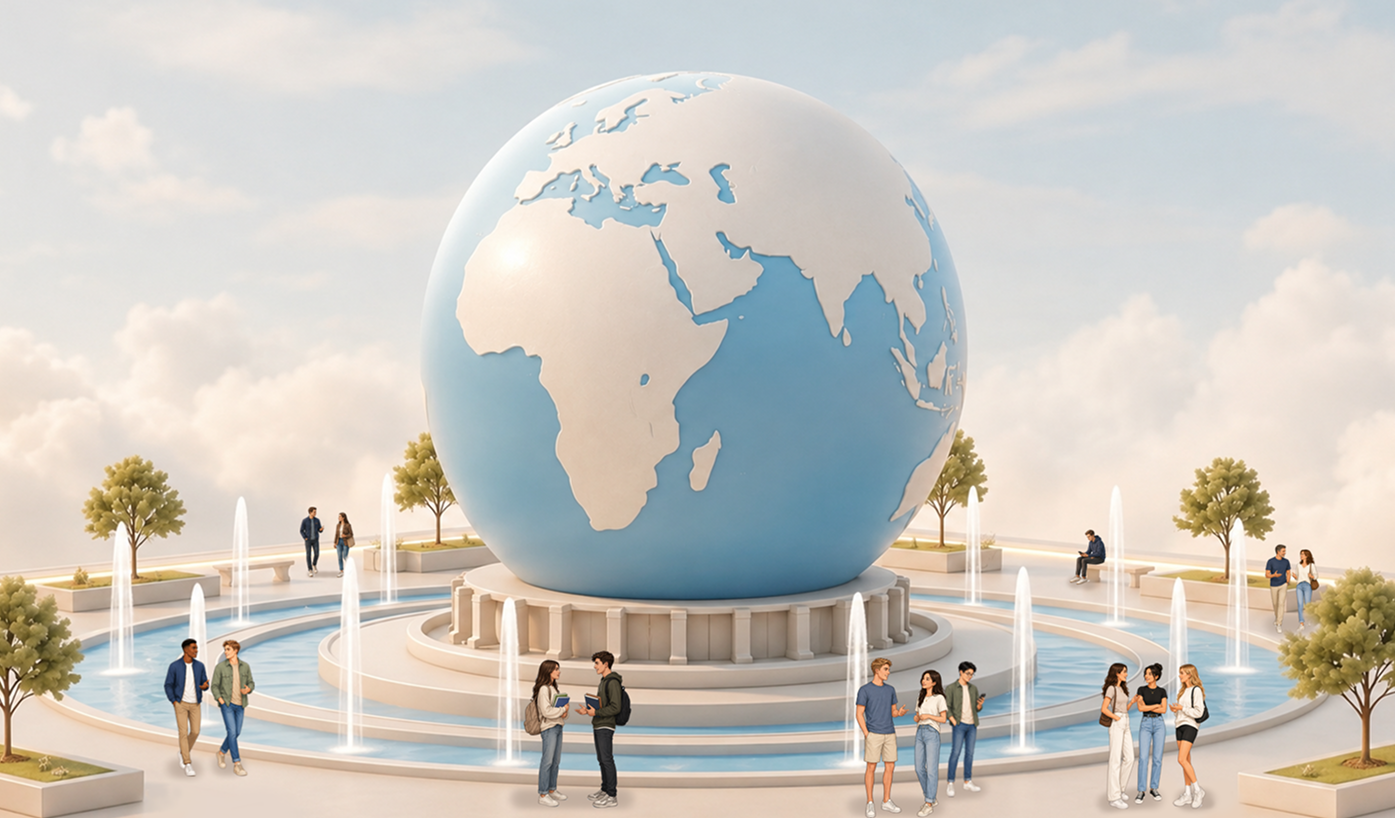
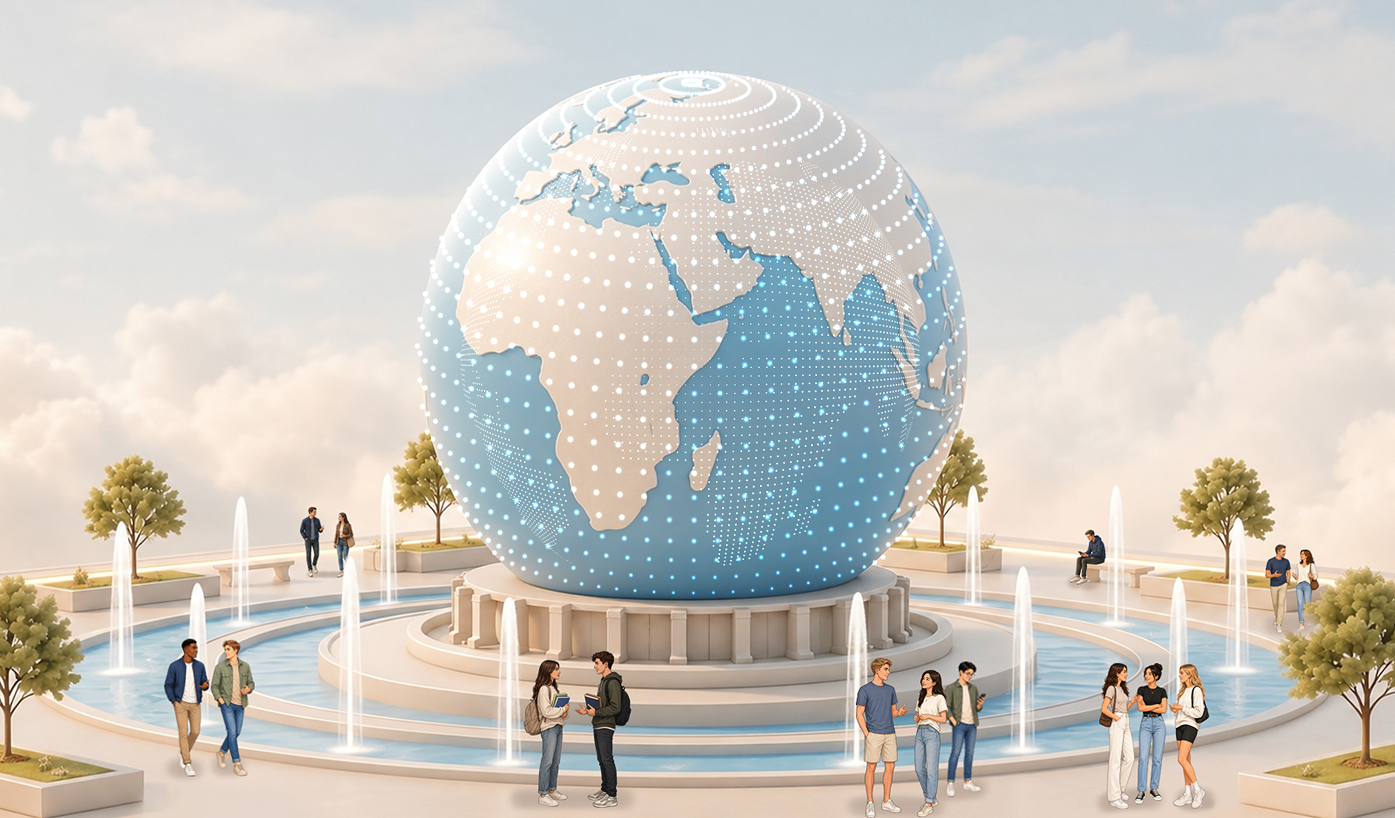
+

diff --git a/src/components/goals/Olympiad/Olympiad.tsx b/src/components/goals/Olympiad/Olympiad.tsx
@@ -28,20 +28,22 @@ import hat from "@/assets/icons/hat.svg";
 import star from "@/assets/icons/star.svg";
 import clipboardList from "@/assets/icons/clipboardList.svg";
 import university from "@/assets/icons/university.svg";
+import globalArea2 from "@/assets/images/globalArea2.png";
+import schoolboy6 from "@/assets/images/schoolboy6.png";
 
 const Olympiad = observer(function Olympiad() {
-  const [step, setStep] = useState(1);
+  const [step, setStep] = useState(5);
   const [isSequenceCompleted, setIsSequenceCompleted] = useState(false);
   const [isQuizCompleted, setIsQuizCompleted] = useState(false);
   const [isQuizWrong, setIsQuizWrong] = useState(false);
 
-  useEffect(() => {
-    const timer = setTimeout(() => {
-      setStep(2);
-    }, 5000);
+  // useEffect(() => {
+  //   const timer = setTimeout(() => {
+  //     setStep(2);
+  //   }, 5000);
 
-    return () => clearTimeout(timer);
-  }, []);
+  //   return () => clearTimeout(timer);
+  // }, []);
 
   useEffect(() => {
     if (step !== 7) return;
@@ -246,6 +248,7 @@ const Olympiad = observer(function Olympiad() {
               question="Тебе приходит сообщение: «Оплати доступ к олимпиадному заданию — получи бонус. Пришли код из СМС для подтверждения». Твои действия?"
               correctAnswerId="3"
               onCorrect={() => setIsQuizCompleted(true)}
+              resetDelay={5000}
               onWrong={() => {
                 setIsQuizWrong(true);
               }}
@@ -290,7 +293,11 @@ const Olympiad = observer(function Olympiad() {
               </div>
             )}
           </div>
-          <InfoCard title="Академия" backgroundImage={globalArea} className="">
+          <InfoCard
+            title="Академия"
+            backgroundImage={step === 9 ? globalArea2 : globalArea}
+            className=""
+          >
             {step === 7 && <></>}
             {step === 8 && (
               <ActionButton
@@ -343,13 +350,25 @@ const Olympiad = observer(function Olympiad() {
             className="absolute inset-0 w-full h-full object-cover"
           />
 
-          <div className="relative">
-            <div className="text-[24px] leading-[115%] text-white w-85.5 py-6.25 px-10 bg-[#32292280] rounded-4xl backdrop-blur-[60px] absolute -top-50 left-7.75">
-              Было бы так просто — я бы уже чемпионом стал. Нет, здесь нужна
-              практика. Давай ещё раз?
+          {isQuizWrong ? (
+            <div>
+              <div className="absolute bottom-0">
+                <img src={schoolboy6} alt="Школьник" />
+                <div className="text-[24px] leading-[115%] text-white w-63.5 py-6.25 px-10 bg-[#32292280] rounded-4xl backdrop-blur-[60px] absolute -top-20 left-14">
+                  Давай ещё раз
+                </div>
+              </div>
             </div>
-            <img src={schoolboy} alt="Школьник" />
-          </div>
+          ) : (
+            <div className="relative">
+              <img src={schoolboy} alt="Школьник" />
+              <div className="text-[24px] leading-[115%] text-white w-85.5 py-6.25 px-10 bg-[#32292280] rounded-4xl backdrop-blur-[60px] absolute -top-50 left-7.75">
+                Было бы так просто — я бы уже чемпионом стал. Нет, здесь нужна
+                практика. Давай ещё раз?
+              </div>
+            </div>
+          )}
+
           <div className="mr-14 mb-39.75">
             <QuizQuestion
               question="Тебе приходит сообщение: «Оплати доступ к олимпиадному заданию — получи бонус. Пришли код из СМС для подтверждения». Твои действия?"

diff --git a/src/stores/rootStore.ts b/src/stores/rootStore.ts
@@ -1,12 +1,12 @@
 import { makeAutoObservable } from "mobx";
 
 class RootStore {
-  role: string | null = null;
-  isIntroFinished = false;
-  goal: string | null = null;
-  // role: string | null = "schoolboy";
-  // isIntroFinished = true;
-  // goal: string | null = "olympiad";
+  // role: string | null = null;
+  // isIntroFinished = false;
+  // goal: string | null = null;
+  role: string | null = "schoolboy";
+  isIntroFinished = true;
+  goal: string | null = "olympiad";
 
   constructor() {
     makeAutoObservable(this);

diff --git a/src/components/QuizQuestion/QuizQuestion.tsx b/src/components/QuizQuestion/QuizQuestion.tsx
@@ -14,6 +14,7 @@ interface QuizQuestionProps {
   children?: ReactNode;
   onCorrect?: () => void;
   onWrong?: () => void;
+  resetDelay?: number;
 }
 
 export default function QuizQuestion({
@@ -23,6 +24,7 @@ export default function QuizQuestion({
   onCorrect,
   onWrong,
   children,
+  resetDelay = 3000,
 }: QuizQuestionProps) {
   const [selectedAnswer, setSelectedAnswer] = useState<string | null>(null);
 
@@ -35,6 +37,10 @@ export default function QuizQuestion({
       onCorrect?.();
     } else {
       onWrong?.();
+
+      setTimeout(() => {
+        setSelectedAnswer(null);
+      }, resetDelay);
     }
   };
 

diff --git a/src/components/Intro/Intro.tsx b/src/components/Intro/Intro.tsx
@@ -59,12 +59,12 @@ const Intro = observer(function Intro() {
   return (
     <div className="h-full min-h-screen bg-[url('assets/images/introMap.png')] bg-cover bg-center">
       {step === 1 && (
-        <div className="max-w-277.5 mx-auto text-center pt-22.5 pb-31">
+        <div className="max-w-277.5 mx-auto text-center py-22.5">
           <h1 className="font-semibold text-[120px] leading-33 text-[#0f0f33] mb-3">
             Город <br /> содружества
           </h1>
 
-          <p className="font-semibold text-[56px] leading-16 text-[#646872] mb-140.5">
+          <p className="font-semibold text-[56px] leading-16 text-[#646872] mb-115.5">
             Пространство для твоего развития
           </p>
 

diff --git a/src/components/InfoCard/InfoCard.tsx b/src/components/InfoCard/InfoCard.tsx
@@ -14,7 +14,7 @@ export default function InfoCard({
   className,
 }: InfoCardProps) {
   return (
-    <div className="p-10 border-[6px] border-[#FFE9C0] rounded-4xl bg-[linear-gradient(180deg,rgba(255,247,241,0.6)_0%,rgba(255,237,224,0.6)_100%)] my-14 mr-14">
+    <div className="p-10 border-[6px] border-[#FFE9C0] rounded-4xl bg-[linear-gradient(180deg,rgba(255,247,241,0.6)_0%,rgba(255,237,224,0.6)_100%)] my-12 mr-14">
       <h1 className="font-semibold text-[40px] leading-12 text-[#0F0F33] mb-6">
         {title}
       </h1>